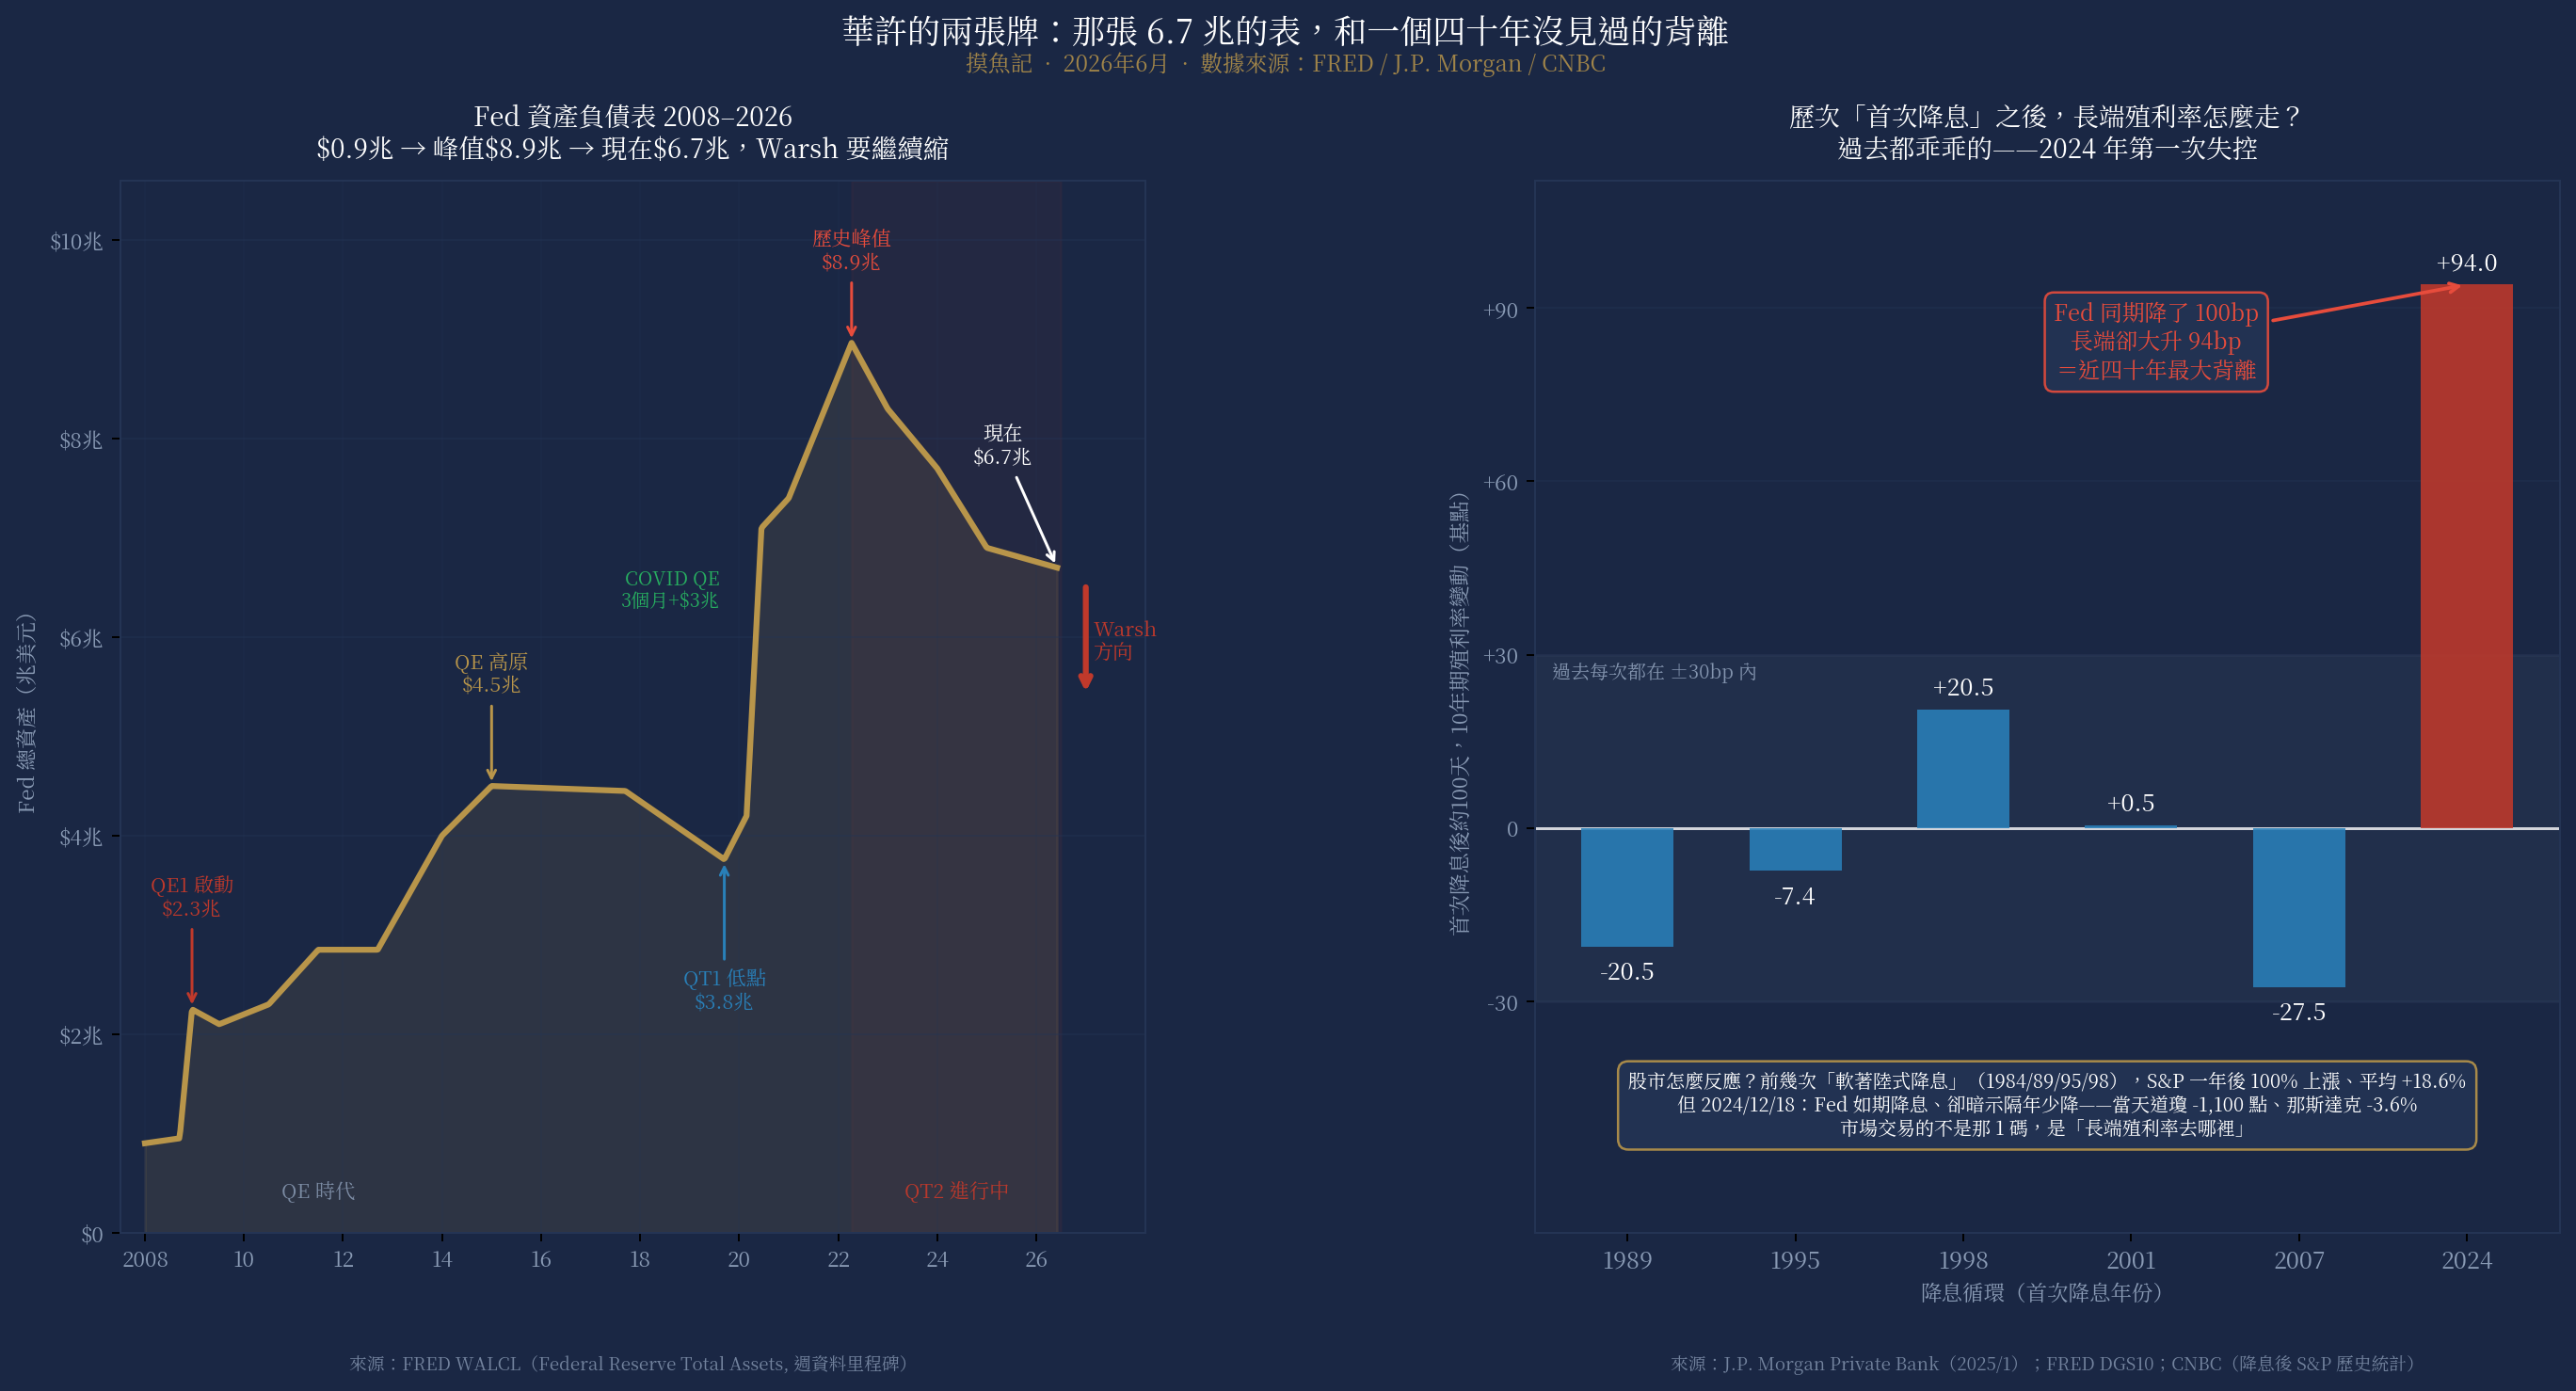
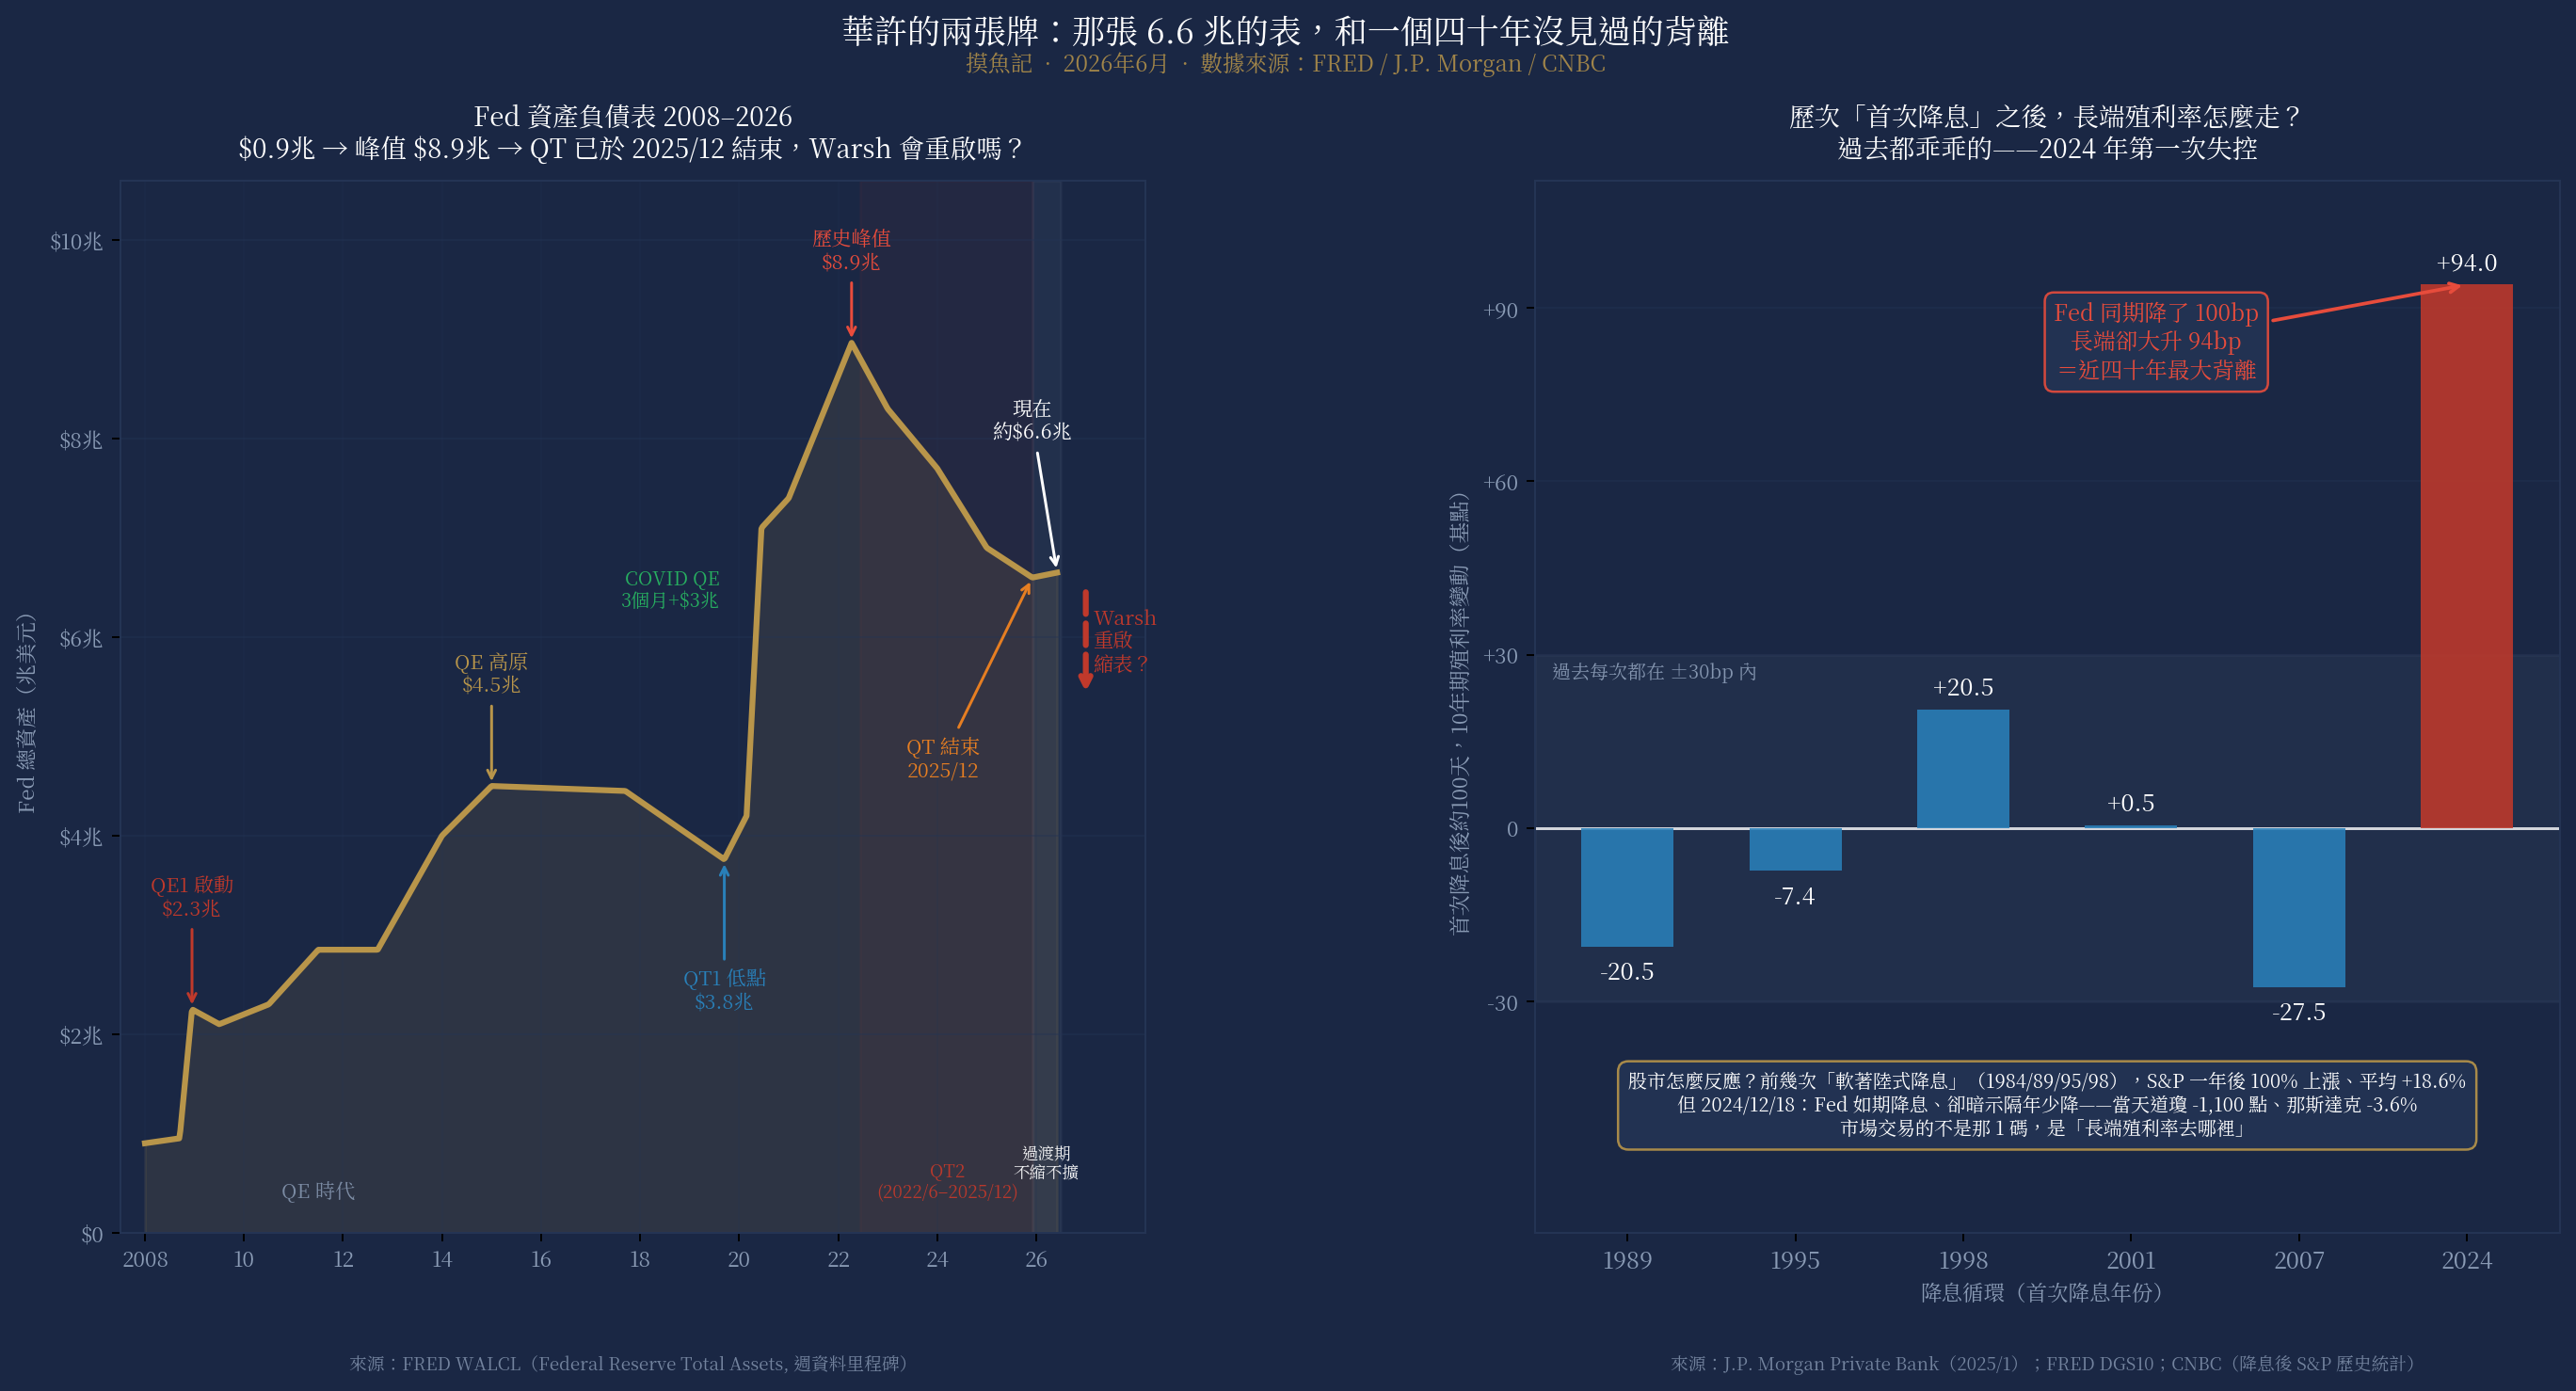
Update W4 for QT end (Dec 2025): chart and article reframed to "restart QT"
QT officially ended Dec 1, 2025 (announced Oct 29) due to money-market
strain with reserves below $3T; Fed now reinvesting maturities. Chart
marks QT2 era 2022/6-2025/12 plus transition band; Warsh arrow becomes
"restart?". Article: balance sheet ~$6.6T, adds Powell-stopped-QT context
and the tension that Warsh would reopen what plumbing stress just closed.

https://claude.ai/code/session_018tFJsAocxkkN841KKEfNNx

diff --git a/personal/drafts/gen_W4_chart.py b/personal/drafts/gen_W4_chart.py
@@ -66,7 +66,8 @@ pts = [
     (2023.0,  8.3),
     (2024.0,  7.7),
     (2025.0,  6.9),
-    (2026.42, 6.7),   # now
+    (2025.92, 6.6),   # QT2 ends Dec 1, 2025
+    (2026.42, 6.65),  # transition: reinvesting, roughly flat
 ]
 yrs = np.array([p[0] for p in pts])
 val = np.array([p[1] for p in pts])
@@ -84,7 +85,8 @@ annot = [
     (2015.0,  4.5,  "QE 高原\n$4.5兆",   0.0,  0.9, GOLD),
     (2019.7,  3.76, "QT1 低點\n$3.8兆",  0.0, -1.1, BLUE),
     (2022.27, 8.965,"歷史峰值\n$8.9兆",  0.0,  0.7, LRED),
-    (2026.42, 6.7,  "現在\n$6.7兆",     -1.1,  1.0, WHITE),
+    (2025.92, 6.6,  "QT 結束\n2025/12", -1.8, -1.6, AMBER),
+    (2026.42, 6.65, "現在\n約$6.6兆",   -0.5,  1.3, WHITE),
 ]
 for xp, yp, label, dx, dy, color in annot:
     ax1.annotate(label,
@@ -100,15 +102,20 @@ for xp, yp, label, dx, dy, color in annot:
 ax1.text(2019.6, 6.3, "COVID QE\n3個月+$3兆", color=GREEN, fontsize=8,
          fontweight='bold', ha='right')
 
-# Warsh direction arrow at right edge
-ax1.annotate('', xy=(2027.0, 5.4), xytext=(2027.0, 6.55),
-             arrowprops=dict(arrowstyle='->', color=RED, lw=2.5))
-ax1.text(2027.15, 5.95, "Warsh\n方向", color=RED, fontsize=8.5,
+# Warsh direction arrow at right edge — restart QT?
+ax1.annotate('', xy=(2027.0, 5.4), xytext=(2027.0, 6.5),
+             arrowprops=dict(arrowstyle='->', color=RED, lw=2.5,
+                             linestyle='--'))
+ax1.text(2027.15, 5.95, "Warsh\n重啟\n縮表？", color=RED, fontsize=8.5,
          fontweight='bold', va='center', ha='left')
 
-# QT2 shading band 2022-now
-ax1.axvspan(2022.27, 2026.5, alpha=0.06, color=RED)
-ax1.text(2024.4, 0.35, "QT2 進行中", color=RED, fontsize=8.5,
+# QT2 shading band: Jun 2022 – Dec 2025 (runoff ended Dec 1, 2025)
+ax1.axvspan(2022.45, 2025.92, alpha=0.06, color=RED)
+# Transition band: Dec 2025 – now (reinvesting, neither QT nor QE)
+ax1.axvspan(2025.92, 2026.5, alpha=0.08, color=LGREY)
+ax1.text(2024.2, 0.35, "QT2\n(2022/6–2025/12)", color=RED, fontsize=7.5,
+         ha='center', alpha=0.95, fontweight='bold')
+ax1.text(2026.2, 0.55, "過渡期\n不縮不擴", color=WHITE, fontsize=7,
          ha='center', alpha=0.95, fontweight='bold')
 ax1.text(2011.5, 0.35, "QE 時代", color=LGREY, fontsize=8.5,
          ha='center', alpha=0.85)
@@ -122,7 +129,7 @@ ax1.set_yticks([0, 2, 4, 6, 8, 10])
 ax1.set_yticklabels(['$0', '$2兆', '$4兆', '$6兆', '$8兆', '$10兆'],
                     color=LGREY, fontsize=9)
 ax1.set_ylabel('Fed 總資產（兆美元）', color=LGREY, fontsize=9)
-ax1.set_title('Fed 資產負債表 2008–2026\n$0.9兆 → 峰值$8.9兆 → 現在$6.7兆，Warsh 要繼續縮',
+ax1.set_title('Fed 資產負債表 2008–2026\n\\$0.9兆 → 峰值 \\$8.9兆 → QT 已於 2025/12 結束，Warsh 會重啟嗎？',
               color=WHITE, fontsize=11, fontweight='bold', pad=10)
 for sp in ax1.spines.values():
     sp.set_color(DGREY)
@@ -203,7 +210,7 @@ ax2.text(0.5, -0.13,
 
 # ── Master title
 fig.text(0.5, 0.94,
-         '華許的兩張牌：那張 6.7 兆的表，和一個四十年沒見過的背離',
+         '華許的兩張牌：那張 6.6 兆的表，和一個四十年沒見過的背離',
          ha='center', color=WHITE, fontsize=14, fontweight='bold')
 fig.text(0.5, 0.922,
          '摸魚記  ·  2026年6月  ·  數據來源：FRED / J.P. Morgan / CNBC',